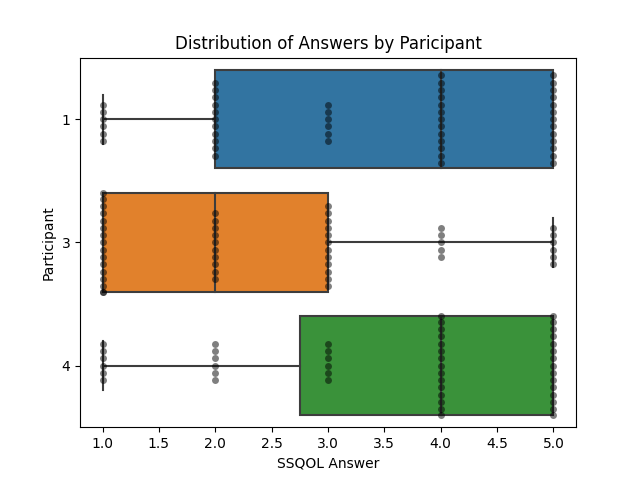
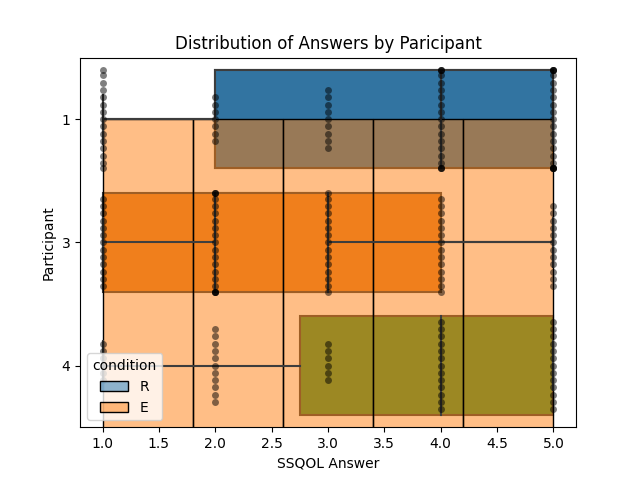
Added plots

diff --git a/main.py b/main.py
@@ -32,7 +32,7 @@ SSQOL_only_questions['duration_seconds'] = SSQOL_only_questions.groupby('user_id
 SSQOL_only_questions['duration_seconds'] = SSQOL_only_questions['duration_seconds'].fillna(0)
 # Calculate the cumulative sum of the duration_seconds for each user
 SSQOL_only_questions['Cumulative_duration_seconds'] = SSQOL_only_questions.groupby('user_id')['duration_seconds'].cumsum()
-
+SSQOL_only_questions.reset_index(drop=True, inplace=True)
 # Calculates rushing i.g. seconds-per-item(SPI)
 def rushing(row):
     if row['question'] > 1:
@@ -55,11 +55,12 @@ SSQOL_only_questions['condition_number'] = SSQOL_only_questions.apply(lambda row
 #add column rushing
 SSQOL_only_questions['seconds-per-item'] = SSQOL_only_questions.apply(lambda row: rushing(row), axis=1)
 
+
 # Custom color palette
 customPalette = ['#630C3A', '#39C8C6', '#D3500C']
 # Plot the rushing
 rushingPlot = sns.lineplot(x='question', y='seconds-per-item', hue='user_id', data=SSQOL_only_questions, legend=True)
-plt.xlabel('Question')
+plt.xlabel('SSQOL Question')
 plt.ylabel('Seconds per item')
 plt.legend(labels=['P1', 'P3', 'P4'])
 plt.savefig('rushingPlot.png')
@@ -81,7 +82,7 @@ plt.show()
 answerDistributionBoxplot = sns.boxplot(data=SSQOL_only_questions, x='answer', y="condition", orient='h')
 answerDistributionSwarnPlot = sns.swarmplot(data=SSQOL_only_questions, x='answer', y="condition", orient='h', color='black', size=5, alpha=0.5)
 plt.title('Distribution of Answers by Condition')
-plt.xlabel('Answer')
+plt.xlabel('SSQOL Answer')
 plt.ylabel('Condition')
 plt.savefig('answerDistributionPrConditionBoxplot.png')
 plt.show()
@@ -103,7 +104,7 @@ plt.show()
 SSQOL_without3 = SSQOL_only_questions.loc[SSQOL['user_id'] != 3]
 
 # t-test for reflective and example question answers
-grouped = SSQOL_only_questions.groupby('condition')['answer']
+grouped = SSQOL_without3.groupby('condition')['answer']
 reflectiveQuestions = grouped.get_group('R')
 exampleQuestions = grouped.get_group('E')
 
@@ -113,8 +114,8 @@ exampleQuestions = grouped.get_group('E')
 print("variance reflective questions: ", np.var(reflectiveQuestions))
 print("variance example questions: ", np.var(exampleQuestions))
 # mean  and standard diviation
-print("reflective questions mean:" ,np.mean(reflectiveQuestions), ",standard diviation : ", np.std(reflectiveQuestions))
-print("example questions mean:" ,np.mean(exampleQuestions), ",standard diviation : ", np.std(exampleQuestions))
+print("reflective questions mean:" ,np.mean(reflectiveQuestions), ",standard deviation : ", np.std(reflectiveQuestions))
+print("example mean:" ,np.mean(exampleQuestions), ",standard deviation : ", np.std(exampleQuestions))
 
 t_statistic, p_value = stats.ttest_ind(reflectiveQuestions, exampleQuestions)
 print("t-statistic = ", t_statistic)
@@ -128,10 +129,24 @@ print("SSQOL Scores per participant: ", sumOfAnswersPerUser)
 meanOfAnswersPerUser = SSQOL_only_questions.groupby('user_id')['answer'].mean()
 sdOfAnswersPerUser = SSQOL_only_questions.groupby('user_id')['answer'].std()
 print("SSQOL mean Scores per participant: ", meanOfAnswersPerUser)
-print("SSQOL standard diviation Scores per participant: ", sdOfAnswersPerUser)
+print("SSQOL standard deviation Scores per participant: ", sdOfAnswersPerUser)
 
 # total time per user
 totalTimePerUser = SSQOL_only_questions.groupby('user_id')['Cumulative_duration_minutes'].max()
 print("SSQOL total time per participant: ", totalTimePerUser)
+
+# mean and standard deviation time per item
+meanTimePerItem = SSQOL_only_questions.groupby('user_id')['seconds-per-item'].mean()
+sdTimePerItem = SSQOL_only_questions.groupby('user_id')['seconds-per-item'].std()
+print("SSQOL mean time per item per participant: ", meanTimePerItem)
+print("SSQOL standard deviation time per item per participant: ", sdTimePerItem)
+
+print(SSQOL_only_questions.groupby('user_id')['duration_seconds'].head(5))
+#print second value of duration_seconds
+print('test')
+print('not work', SSQOL_only_questions['duration_seconds'].loc[1])
+
+# SSQOL as excel
+SSQOL_only_questions.to_excel('preprocessedata.xlsx')
 
 #display(SSQOL_only_questions)

diff --git a/Plots.py b/Plots.py
@@ -1,0 +1,95 @@
+import pandas as pd
+from IPython.display import display
+import datetime
+import numpy as np
+import matplotlib.pyplot as plt
+import seaborn as sns
+import scipy.stats as stats
+
+df = pd.read_excel('plotdata.xlsx')
+
+
+
+# Creating a custom color palette
+custom_palette = sns.color_palette(['#569FE6', '#f9ba55', 'black'])
+
+
+# Plot the rushing
+dfrush = df[df['seconds-per-item'] !=0]
+rushingPlot = sns.lineplot(x='question', y='seconds-per-item', hue='user_id', data=dfrush, legend=True, palette=custom_palette)
+# Access the legend object
+legend = rushingPlot.legend_
+# Change the legend title
+legend.set_title("Participants")
+plt.xlabel('SSQOL Question')
+plt.ylabel('Seconds per item')
+plt.savefig('rushingPlot.png')
+plt.show()
+
+# Power law of learning
+powerLawPlot = sns.lineplot(x='question', y='Power_Law_Of_Learning', hue='user_id', data=df, legend=True, palette=custom_palette)
+plt.xlabel('SSQOL Question')
+plt.ylabel('Time completion(seconds)')
+# Access the legend object
+legend = powerLawPlot.legend_
+# Change the legend title
+legend.set_title("Participants")
+plt.savefig('learningPlot.png')
+plt.show()
+
+# kdeplot
+kdePlot = sns.kdeplot(data=df, x='answer', hue='condition', palette=custom_palette, fill=True, alpha=.3, linewidth=0)
+plt.xlabel('SSQOL Question')
+plt.ylabel('Density')
+# Access the legend object
+legend = kdePlot.legend_
+# Change the legend title
+legend.set_title("Conditions")
+plt.xlim(1, 5)
+plt.savefig('DensityCondition.png')
+plt.show()
+
+
+# Violinplots
+Violinplots = sns.violinplot(data=df, x='answer', y='condition', palette=custom_palette, inner='quartile')
+plt.xlabel('SSQOL Question')
+plt.ylabel('Condition')
+plt.xlim(1, 5)
+plt.savefig('ViolinplotsCondition.png')
+plt.show()
+
+
+# Plot the time
+#sns.lineplot(x='question', y='Cumulative_duration_minutes', hue='user_id', data=df)
+#ax2 = plt.twinx()
+#sns.lineplot(x='question', y='duration_seconds', hue='user_id', data=df, ax=ax2, legend=False
+#plt.show()
+
+# Plot answers distribution by condition using histplot
+answerDistributionHistplot = sns.histplot(data=df, x='answer', hue='condition', bins=5, multiple='stack', kde=True)
+plt.title('Distribution of Answers by Condition')
+plt.xlabel('Answer')
+plt.ylabel('Count')
+#plt.show()
+
+# Plot answers distribution by condition using boxplot
+answerDistributionBoxplot = sns.boxplot(data=df, x='answer', y="condition", orient='h')
+answerDistributionSwarnPlot = sns.swarmplot(data=df, x='answer', y="condition", orient='h', color='black', size=5, alpha=0.5)
+plt.title('Distribution of Answers by Condition')
+plt.xlabel('SSQOL Answer')
+plt.ylabel('Condition')
+#plt.savefig('answerDistributionPrConditionBoxplot.png')
+#plt.show()
+
+# Plot answers per user id
+answerDistributionBoxplot = sns.boxplot(data=df, x='answer', y="user_id", orient='h')
+answerDistributionSwarnPlot = sns.swarmplot(data=df, x='answer', y="user_id", orient='h', color='black', size=5, alpha=0.5)
+plt.title('Distribution of Answers by Paricipant')
+plt.xlabel('SSQOL Answer')
+plt.ylabel('Participant')
+plt.savefig('answerDistributionBoxplot.png')
+#plt.show()
+
+# 2nd plot for answers per user id
+#sns.lineplot(x='question', y='answer', hue='user_id', data=df)
+#plt.show()
